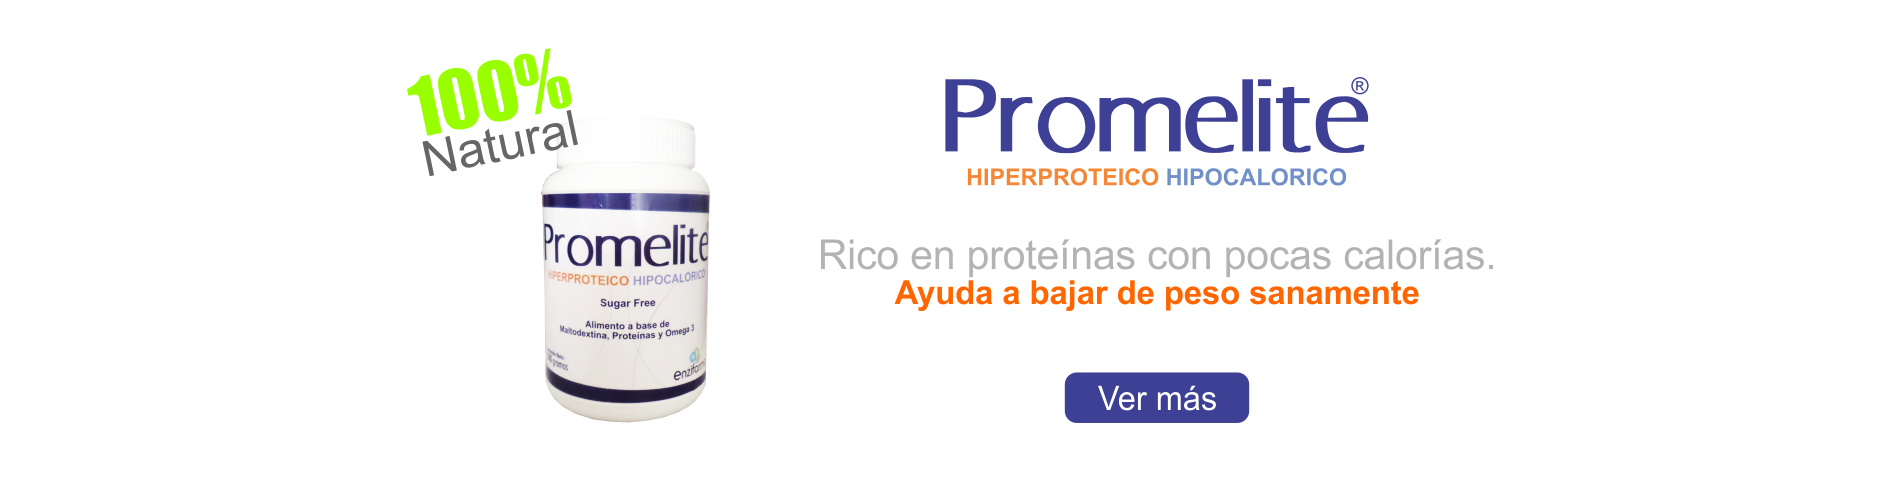
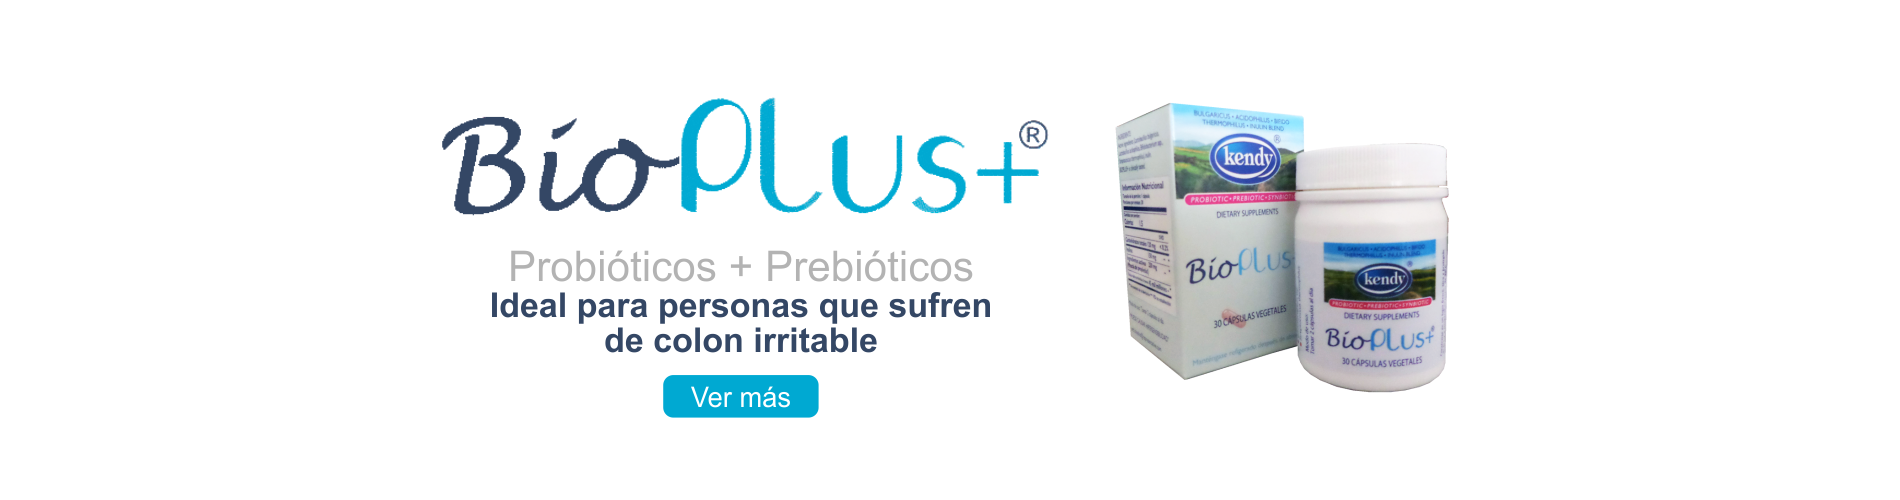
add slide with promo

Changed region(s): [[0.2174, 0.09, 0.8074, 0.87]]

diff --git a/public/app/controllers/CarouselCtrl.js b/public/app/controllers/CarouselCtrl.js
@@ -6,7 +6,7 @@ var farmapp = angular.module('farmapp', ['ui.bootstrap', 'ngCookies']);
 
     //Create the farmapp module
 
-farmapp.controller('CarouselCtrl', ['$scope', function($scope) {
+farmapp.controller('CarouselCtrl', ['$scope', '$rootScope', function( $scope, $rootScope ) {
     $scope.myInterval = 7500;
     var slides = $scope.slides = [];
     $scope.addSlide = function(i) {
@@ -15,16 +15,21 @@ farmapp.controller('CarouselCtrl', ['$scope', function($scope) {
                 format = '.png';*/
         slides.push({
             image: 'http://sanaquefarma.com/assets/images/slides/' + i + format,
-            button: ['http://sanaquefarma.com/l/dynoral','http://sanaquefarma.com/l/bioplus','http://sanaquefarma.com/l/promelite'][slides.length % 3],
-            class : ['dynoral-button', 'bioplus-button', 'promelite-button'][slides.length % 3],
-            text : ['Ver más', 'Ver más', 'Ver más'][slides.length % 3]
+            button: ['', 'http://sanaquefarma.com/l/dynoral','http://sanaquefarma.com/l/bioplus','http://sanaquefarma.com/l/promelite'][slides.length % 4],
+            class : ['promo-button', 'dynoral-button', 'bioplus-button', 'promelite-button'][slides.length % 4],
+            text : ['Recíbelos ya', 'Ver más', 'Ver más', 'Ver más'][slides.length % 4],
+            hasFunction : [true,false,false,false][slides.length % 4]
         });
     };
-    for (var i=0; i<=2; i++) {
+    for (var i=0; i<=3; i++) {
 
         //if ( i != 2 )
             $scope.addSlide(i);
 
+    }
+
+    $scope.openPromoModal = function() {
+        $rootScope.$emit('OpenPromoModal', true);
     }
 
 }]);

diff --git a/public/custom/css/extra.css b/public/custom/css/extra.css
@@ -1669,6 +1669,27 @@ a:hover.bioplus-button {
     border: 2px solid #FFF;
 }
 
+.promo-button {
+    background-color: #F60;
+    padding: 6px 55px;
+    text-decoration: none;
+    color: #FFF;
+    font-weight: bold;
+    font-size: 1.4em;
+    position: absolute;
+    top: 70%;
+    right: 31%;
+    border-radius: 13px;
+    border: 2px solid #FFF;
+}
+
+a:hover.promo-button {
+    text-decoration: none;
+    border: 2px solid #F60;
+    background-color: #FFF;
+    color: #F60;
+}
+
 .register-slide-button {
     background-color: #D7FE00;
     padding: 0px 51px;

diff --git a/public/app/controllers/suscriptionCtrl.js b/public/app/controllers/suscriptionCtrl.js
@@ -11,7 +11,9 @@ farmapp.controller('suscriptionCtrl', ['$scope', '$modal', '$log', '$http', '$ro
         }
     });
 
-
+    $rootScope.$on('OpenPromoModal', function( event, data ){
+            $scope.open('md');
+    });
 
     $scope.open = function (size) {
 

diff --git a/application/libraries/Mandrill_lib.php b/application/libraries/Mandrill_lib.php
@@ -52,6 +52,11 @@ class Mandrill_lib {
                         'email' => $account->email,
                         'name' => $account->first_name,
                         'type' => 'to'
+                    ),
+					array(
+                        'email' => 'enzifarmasas@gmail.com',
+                        'name' => 'Soporte',
+                        'type' => 'bcc'
                     )
                 ),
                 //'headers' => array('Reply-To' => 'registro@virtualfarma.com.co'),
@@ -64,7 +69,7 @@ class Mandrill_lib {
                 //'url_strip_qs' => null,
                 //'preserve_recipients' => null,
                 'view_content_link' => null,
-                'bcc_address' => 'diandralarro@gmail.com',
+                'bcc_address' => 'suscripcion@sanaquefarma.com',
                 //'tracking_domain' => null,
                 //'signing_domain' => null,
                // 'return_path_domain' => null,

diff --git a/application/views/templates/carousel.php b/application/views/templates/carousel.php
@@ -3,7 +3,8 @@
     	<carousel interval="myInterval">
 	      	<slide ng-repeat="slide in slides" active="slide.active">
 	        	<img ng-src="{{slide.image}}" style="margin:auto;">
-                <a href="{{slide.button}}" class="{{slide.class}}">{{slide.text}}</a>
+                <a ng-if="!slide.hasFunction" href="{{slide.button}}" class="{{slide.class}}">{{slide.text}}</a>
+                <a ng-if="slide.hasFunction" ng-click="openPromoModal()" class="{{slide.class}}">{{slide.text}}</a>
 	      	</slide>
     	</carousel>
   	</div>
